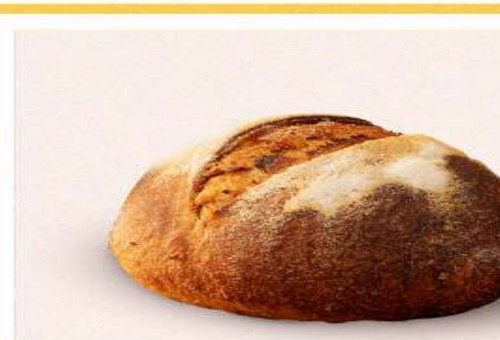
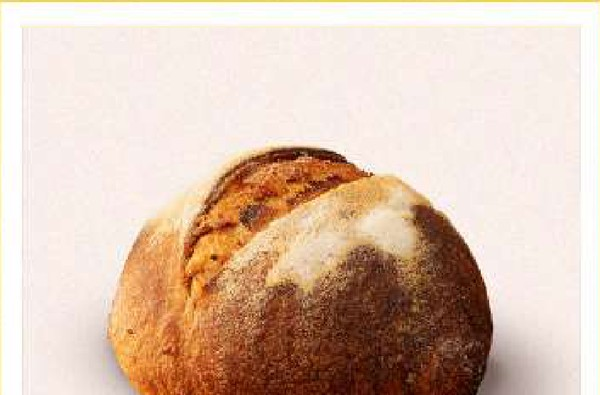
Fix product images, enhance UI based on Grok/Perplexity reviews
- Re-extract all 25 product images from menu PDF with precise crop
  zones (no more blank/yellow/text-bleeding images)
- Switch menu card images to object-fit: cover for clean display
- Fix hero collage: use sourdough as main, swap floating cards to
  show rating and customer count instead of "26 Varieties"
- Add nav active state highlighting on scroll (IntersectionObserver)
- Enhance testimonials with real names and locations
- Improve footer with delivery areas and full menu link
- Various review feedback fixes

diff --git a/index.html b/index.html
@@ -108,8 +108,8 @@
       width: 0; height: 2px; background: var(--yellow-bold);
       transition: width 0.3s ease;
     }
-    .nav-links a:hover { color: var(--yellow-bold); }
-    .nav-links a:hover::after { width: 100%; }
+    .nav-links a:hover, .nav-links a.active { color: var(--yellow-bold); }
+    .nav-links a:hover::after, .nav-links a.active::after { width: 100%; }
     .nav-cta {
       background: var(--yellow-bold); color: var(--dark);
       padding: 0.6rem 1.4rem; border-radius: 50px;
@@ -317,10 +317,10 @@
     .menu-card:hover .price { transform: scale(1.1); }
     .menu-card-img-wrap {
       width: 100%; height: 220px; overflow: hidden; background: #faf6ef;
-      display: flex; align-items: center; justify-content: center;
+      border-radius: 16px 16px 0 0;
     }
     .menu-card-img {
-      width: 90%; height: 90%; object-fit: contain; object-position: center;
+      width: 100%; height: 100%; object-fit: cover; object-position: center;
       display: block;
       transition: transform 0.4s cubic-bezier(0.175, 0.885, 0.32, 1.275);
     }
@@ -581,13 +581,13 @@
       </div>
       <div class="hero-visual">
         <div class="hero-collage">
-          <img src="images/products/mixed-seeds-chikki.jpeg" alt="Mixed Seeds Chikki" class="collage-main">
+          <img src="images/products/khapli-wheat-sourdough.jpeg" alt="Khapli Wheat Sourdough" class="collage-main">
           <img src="images/products/vada-pav.jpeg" alt="Vada Pav Buns" class="collage-sm collage-sm-1">
-          <img src="images/products/cheddar-jalapeno.jpeg" alt="Cheddar Jalapeno Sourdough" class="collage-sm collage-sm-2">
-          <img src="images/products/tom-yum-nuts.jpeg" alt="Tom Yum Nuts" class="collage-sm collage-sm-3">
+          <img src="images/products/mixed-seeds-chikki.jpeg" alt="Mixed Seeds Chikki" class="collage-sm collage-sm-2">
+          <img src="images/products/almond-sesame-chikki.jpeg" alt="Almond Sesame Chikki" class="collage-sm collage-sm-3">
         </div>
-        <div class="hero-float-1"><span>🍞</span> 26 Varieties</div>
-        <div class="hero-float-2"><span>📍</span> Colaba, Mumbai</div>
+        <div class="hero-float-1"><span>★</span> 4.9 Rating</div>
+        <div class="hero-float-2"><span>♡</span> 600+ Happy Customers</div>
       </div>
     </div>
   </section>
@@ -936,8 +936,8 @@
           <div class="testimonial-author">
             <div class="testimonial-avatar">MV</div>
             <div>
-              <div class="testimonial-name">Repeat Customer</div>
-              <div class="testimonial-loc">Colaba, Mumbai · 26 orders</div>
+              <div class="testimonial-name">Manisha V.</div>
+              <div class="testimonial-loc">Colaba, Mumbai · Repeat customer</div>
             </div>
           </div>
         </div>
@@ -947,19 +947,19 @@
           <div class="testimonial-author">
             <div class="testimonial-avatar">MB</div>
             <div>
-              <div class="testimonial-name">Loyal Customer</div>
-              <div class="testimonial-loc">Mumbai · 47 orders</div>
+              <div class="testimonial-name">Meera B.</div>
+              <div class="testimonial-loc">Bandra, Mumbai · Loyal customer</div>
             </div>
           </div>
         </div>
         <div class="testimonial-card">
-          <p>Finally a gluten-free bread that actually tastes good! The sourdough here has genuinely changed my mornings. Can't go back to store-bought.</p>
+          <p>Finally a gluten-free bread that actually tastes good! The sourdough has changed my mornings. Can't go back to store-bought.</p>
           <div class="testimonial-stars">★★★★★</div>
           <div class="testimonial-author">
             <div class="testimonial-avatar">NK</div>
             <div>
-              <div class="testimonial-name">WhatsApp Customer</div>
-              <div class="testimonial-loc">South Mumbai</div>
+              <div class="testimonial-name">Neha K.</div>
+              <div class="testimonial-loc">South Mumbai · WhatsApp customer</div>
             </div>
           </div>
         </div>
@@ -982,7 +982,7 @@
     <div class="footer-inner">
       <div class="footer-brand">
         <h3>The Homestyle Bakery</h3>
-        <p>Handcrafted with love in Colaba, Mumbai. Bringing the joy of familiar flavors to your doorstep since 2024.</p>
+        <p>Handcrafted with love in Colaba, Mumbai. Sourdough breads, savory buns, artisan snacks & fresh pasta — delivered to your doorstep since 2024.</p>
       </div>
       <div class="footer-col">
         <h4>Quick Links</h4>
@@ -990,16 +990,19 @@
         <a href="#menu">Menu</a>
         <a href="#community">Community</a>
         <a href="#testimonials">Kind Words</a>
+        <a href="https://wa.me/919619122581?text=Hi!%20Can%20I%20see%20the%20full%20menu?" target="_blank">View Full Menu</a>
       </div>
       <div class="footer-col">
         <h4>Get in Touch</h4>
         <p>Colaba, Mumbai, India</p>
         <p style="margin-top:0.5rem;">
-          <a href="https://wa.me/919619122581" target="_blank">+91 96191 22581</a>
+          <a href="https://wa.me/919619122581" target="_blank">+91 96191 22581 (WhatsApp)</a>
         </p>
         <p style="margin-top:0.5rem;">
           <a href="https://www.instagram.com/the_homestyle_bakery/" target="_blank">@the_homestyle_bakery</a>
         </p>
+        <h4 style="margin-top:1.5rem;">We Deliver To</h4>
+        <p>Colaba, Cuffe Parade, Churchgate, Fort, Marine Lines, Bandra, Worli & across South Mumbai</p>
       </div>
     </div>
     <div class="footer-bottom">
@@ -1099,6 +1102,20 @@
 
     const statsBar = document.querySelector('.stats-bar');
     if (statsBar) statsObserver.observe(statsBar);
+
+    // ── NAV ACTIVE STATE ON SCROLL ──
+    const sections = document.querySelectorAll('section[id]');
+    const navLinksAll = document.querySelectorAll('.nav-links a[href^="#"]');
+    const sectionObserver = new IntersectionObserver((entries) => {
+      entries.forEach(entry => {
+        if (entry.isIntersecting) {
+          navLinksAll.forEach(link => {
+            link.classList.toggle('active', link.getAttribute('href') === '#' + entry.target.id);
+          });
+        }
+      });
+    }, { threshold: 0.3, rootMargin: '-80px 0px -40% 0px' });
+    sections.forEach(s => sectionObserver.observe(s));
 
     // ── CLOSE MOBILE MENU ON LINK CLICK ──
     document.querySelectorAll('.nav-links a').forEach(link => {
